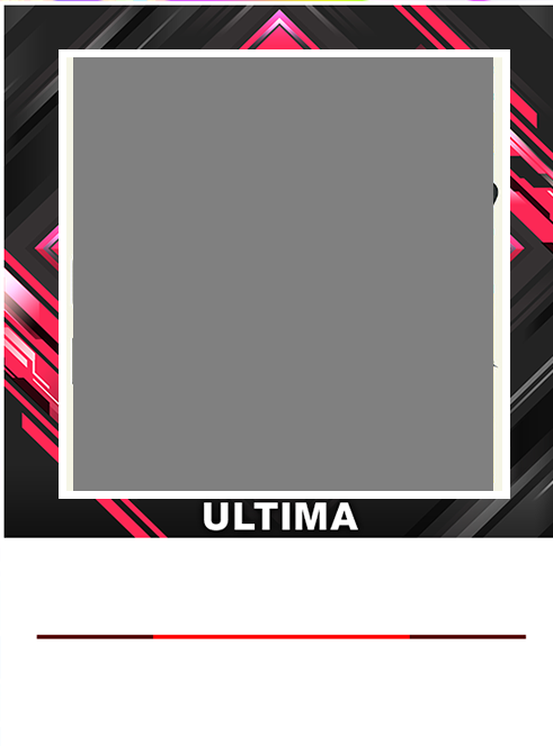
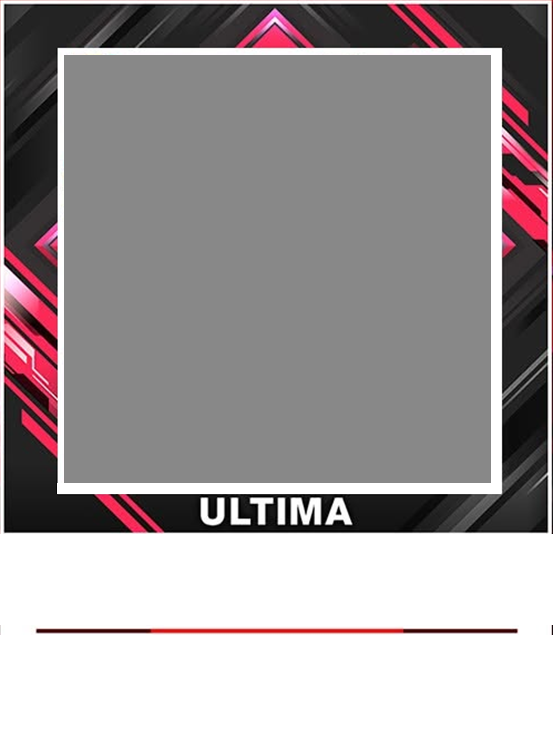
fix: realign ULTIMA card template

Changed region(s): [[0.0, 0.0, 1.0, 0.7399], [0.0615, 0.8324, 0.953, 0.8633]]

diff --git a/src/utils/update-gen/chuni.js b/src/utils/update-gen/chuni.js
@@ -214,7 +214,7 @@ const CARD = {
 /** ULTiMA 卡：底图从官方 xversex 混排公告图抠出（ULTIMA 条与红线已 baked，经预加载后由 imgs 传入）。
  *  曲绘孔跟随专用底图，曲名/曲师则与普通卡共用同一组中心线，避免混排时上下错位。 */
 const CARD_ULTIMA = {
-  art: { x: 0.1324, y: 0.0768, w: 0.7576, h: 0.5798 },
+  art: { ...CARD.art },
   name: { centerline: 0.779, size: 0.0633, sizeSingle: 0.0723, pad: 0.11, weight: 900, lineHeight: 1.3, color: '#1a1a1a' },
   artist: { centerline: 0.906, size: 0.047, sizeSingle: 0.0542, pad: 0.15, weight: 600, maxLines: 2, lineHeight: 1.3, color: '#2a2a2a' }
 }
